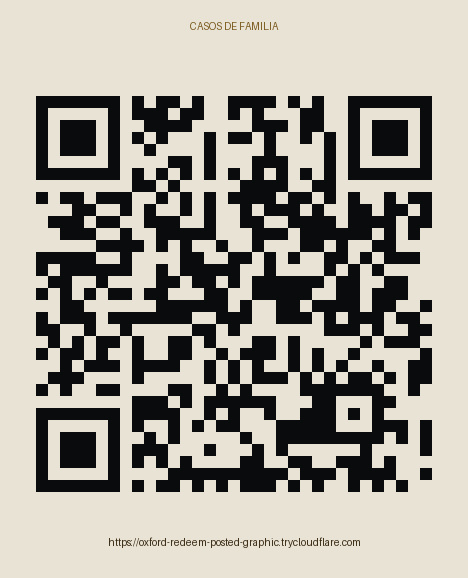
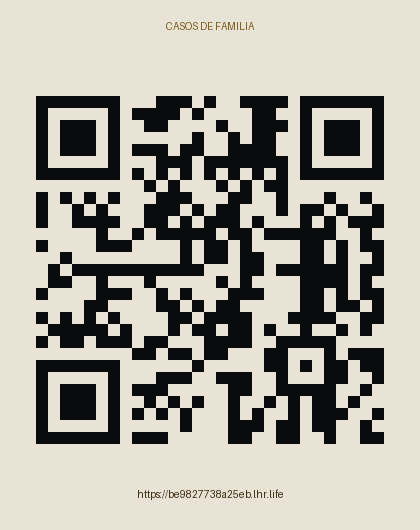
Tunel localhost.run como provedor 1 (15/15 ok + WS); healthz checa identidade do jogo

diff --git a/publica-url.py b/publica-url.py
@@ -52,7 +52,7 @@ for arq in ['COMO-ACESSAR.md', 'RELATORIO.md']:
     p = '/home/user/escape-room/' + arq
     if os.path.exists(p):
         s = open(p).read()
-        s2 = re.sub(r'https://[a-z0-9.-]+\.(trycloudflare\.com|tunnelmole\.net|serveousercontent\.com)', U, s)
+        s2 = re.sub(r'https://[a-z0-9.-]+\.(lhr\.life|localhost\.run|trycloudflare\.com|tunnelmole\.net|serveousercontent\.com)', U, s)
         if s2 != s:
             open(p, 'w').write(s2)
 

diff --git a/ACESSO.md b/ACESSO.md
@@ -1,12 +1,12 @@
 # CASOS DE FAMILIA - link para abrir no celular
 
-## https://oxford-redeem-posted-graphic.trycloudflare.com
+## https://be9827738a25eb.lhr.life
 
 Abra esse endereco no celular. Abre direto, sem tela de aviso, e com WebSocket (voz e chat instantaneos).
 
 QR code: abra `preview/QR-ACESSO.png` e aponte a camera do celular.
 
-Link ativo em: 07/09/2026 23:41:43 - via **Cloudflare**
+Link ativo em: 07/09/2026 23:48:04 - via **localhost.run**
 
 ---
 

diff --git a/RELATORIO.md b/RELATORIO.md
@@ -8,7 +8,7 @@ Data: 07/09/2026 · tudo abaixo foi testado de verdade neste workspace (não é 
 
 | | |
 |---|---|
-| **Link temporário (para testar hoje)** | https://oxford-redeem-posted-graphic.trycloudflare.com |
+| **Link temporário (para testar hoje)** | https://be9827738a25eb.lhr.life |
 | **Link permanente** | ⚠ **Pendente — depende da sua conta** (veja o item 4) |
 | Servidor local | `npm start` → http://localhost:3000 |
 

diff --git a/COMO-ACESSAR.md b/COMO-ACESSAR.md
@@ -2,7 +2,7 @@
 
 ## Link para jogar agora (temporário)
 
-https://oxford-redeem-posted-graphic.trycloudflare.com
+https://be9827738a25eb.lhr.life
 
 > **Atenção:** este endereço é temporário — serve para você testar hoje no celular, mas
 > cai quando esta máquina desliga. O endereço definitivo sai do Render (plano grátis):
